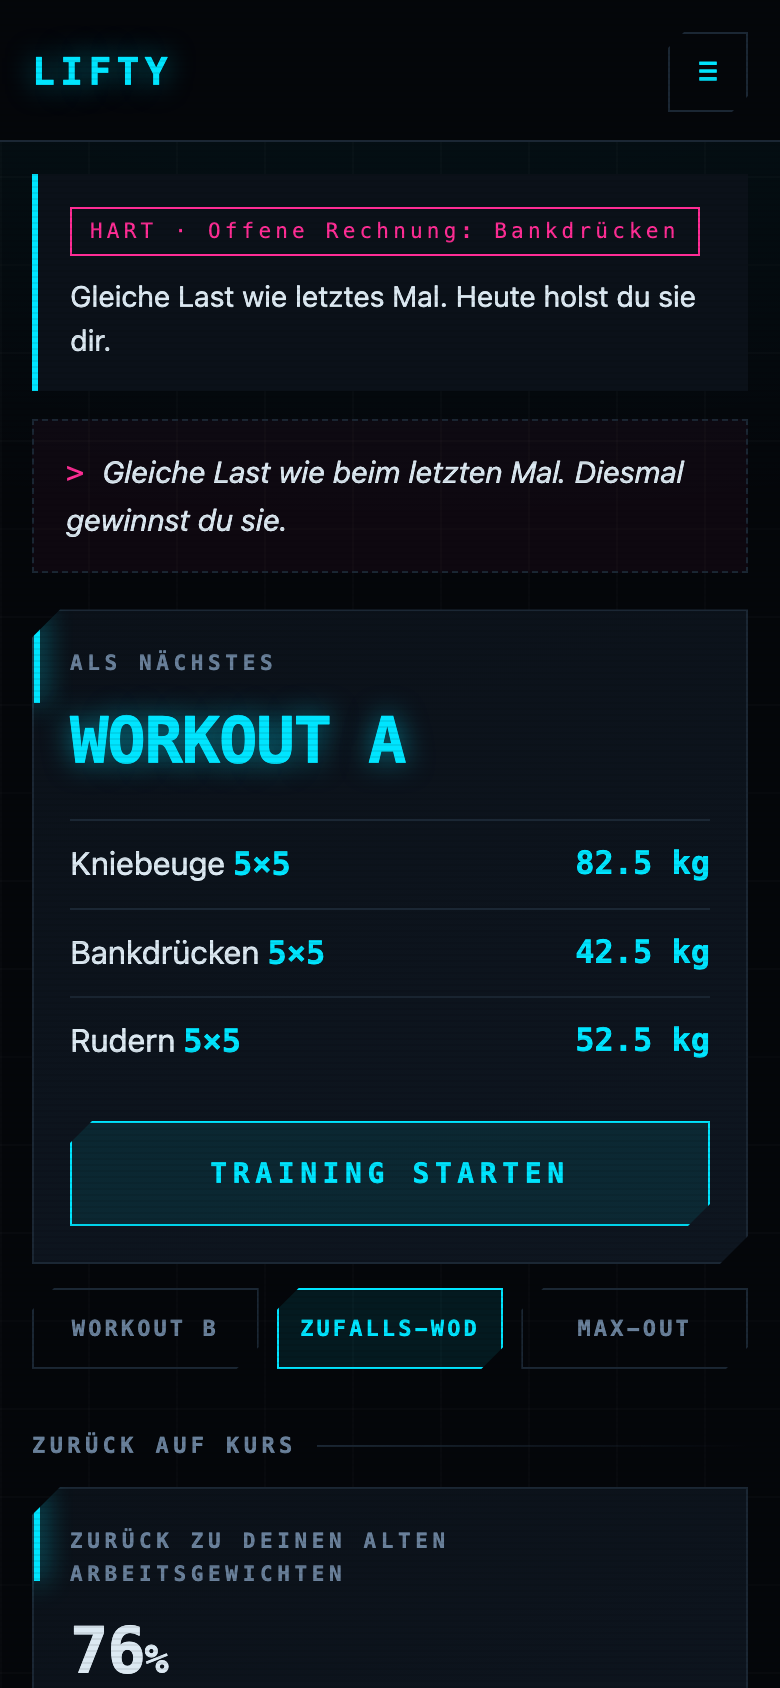
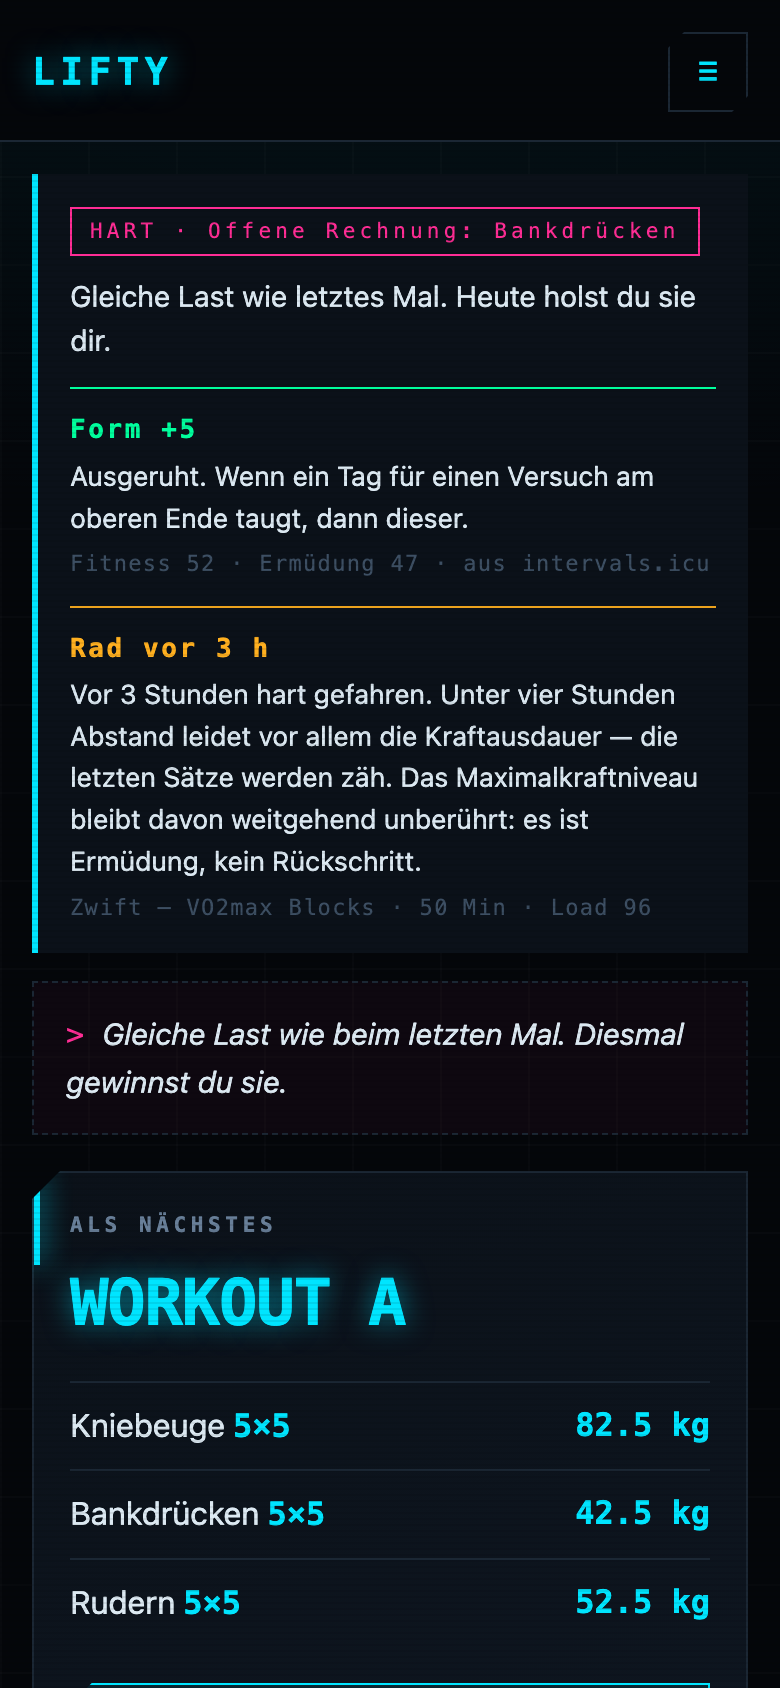
Screenshots neu aufgenommen, README auf Stand (256 Tests)

diff --git a/README.md b/README.md
@@ -4,7 +4,7 @@
 
 <p align="center">
   <a href="https://cyphomat.github.io/lifty/"><img alt="App öffnen" src="https://img.shields.io/badge/App-öffnen-00e5ff?style=for-the-badge&labelColor=0b1119"></a>
-  <img alt="Tests" src="https://img.shields.io/badge/Tests-211%20grün-00ff9d?style=for-the-badge&labelColor=0b1119">
+  <img alt="Tests" src="https://img.shields.io/badge/Tests-256%20grün-00ff9d?style=for-the-badge&labelColor=0b1119">
   <img alt="Build" src="https://img.shields.io/badge/Build-keiner-ff2d95?style=for-the-badge&labelColor=0b1119">
   <img alt="Abhängigkeiten" src="https://img.shields.io/badge/Abhängigkeiten-0-69809a?style=for-the-badge&labelColor=0b1119">
 </p>
@@ -58,7 +58,8 @@
 | **Gewicht im Satz** | Lässt sich während der Einheit anpassen. Das Log bildet ab, was passiert ist; die Progression rechnet von dort weiter. |
 | **Wiederholungen** | Tippen zählt das Ziel. Lange drücken öffnet 0 bis 12 — auch darüber, denn ein starker Satz ist eine Information. |
 | **Pausenuhr** | 90 s, nach einem Fehlversuch 180 s, im Lauf um ±30 s verstellbar. |
-| **Bestwerte** | Schwerster sauberer Satz, gemessenes Einzel, geschätztes Maximum. |
+| **Bestwerte** | Schwerster sauberer Satz, gemessenes Einzel — und getrennt davon **Maximum** (nur aus Max-Out, belastbar) gegen **Mindestens** (aus Arbeitssätzen, Untergrenze). |
+| **Verlauf des Maximums** | Zweite Linie im Diagramm: steigt auch dann, wenn du bei gleichem Gewicht mehr Wiederholungen schaffst. |
 | **Max-Out** | Krafttest mit e1RM. Dreht den A/B-Wechsel nicht und ändert Arbeitsgewichte nur auf ausdrückliche Ansage. |
 | **Wissen an der Stange** | Kadenz direkt sichtbar; aufklappbar Begründung, Cue, typischer Fehler und die Brücke zum olympischen Heben. |
 
@@ -68,6 +69,9 @@
 |---|---|
 | **Radfahrten** | Fahrten, Stunden, Kilometer und die Wochenlast der letzten zwölf Wochen als Balken. |
 | **Form** | Fitness minus Ermüdung aus intervals.icu, als Hinweis in der Tagesansage. Die App kürzt keine Gewichte eigenmächtig. |
+| **Interferenz** | Warnt, wenn eine harte oder lange Fahrt weniger als vier Stunden zurückliegt — dann leidet die Kraftausdauer, nicht das Maximalkraftniveau. |
+| **Wattziele** | Aus der eFTP statt Prozentangaben: „Sweet Spot ≈ 214–226 W". |
+| **Woche im Kalender** | Geplante Einheiten landen auf Wunsch im intervals.icu-Kalender. |
 | **Kraft → intervals.icu** | Jede Krafteinheit und jedes WOD als Aktivität, damit die gesamte Last in **einer** Kurve liegt. |
 | **Zufalls-WOD** | AMRAP, Auf Zeit, EMOM, Chipper, Tabata. Lasten aus dem aktuellen Stand abgeleitet, nie zwei Langhantelteile. |
 | **Technik und Finisher** | Snatch Balance, Hang Power Clean, Overhead Squat · Battle Ropes, Farmer Walk. Täglich rotierend. |
@@ -270,7 +274,7 @@ JSC=/System/Library/Frameworks/JavaScriptCore.framework/Versions/A/Helpers/jsc
 for t in program coach wod stats intervals; do $JSC --module-file=tests/$t.test.js; done
 ```
 
-**211 Tests**, ausgeführt von der JS-Engine, die in macOS ohnehin steckt.
+**256 Tests**, ausgeführt von der JS-Engine, die in macOS ohnehin steckt.
 Kein Node, kein Framework, keine Installation.
 
 Sie decken ab, was still kaputtgehen kann: Progression, Deload, Streak,
@@ -338,3 +342,22 @@ Die tragen die Identität, nicht das Glühen.
 Nirgends im Code, nirgends im Repo, in keinem Commit. GitHub-Token und
 intervals.icu-Key werden in der App eingegeben und liegen ausschließlich im
 `localStorage` des jeweiligen Browsers.
+
+## Warum „Mindestens" und nicht „Maximum"
+
+e1RM-Formeln setzen voraus, dass der Satz nah ans Versagen ging. Ein
+5×5-Arbeitssatz ist per Definition submaximal — die Formel **unterschätzt**
+dort systematisch. Was aus Arbeitssätzen kommt, ist deshalb eine Untergrenze
+und heißt auch so. Ein belastbares Maximum liefert nur ein Max-Out.
+
+Aus demselben Grund mischt die Verlaufskurve die beiden Quellen nicht: die
+gestrichelte Linie zeigt nur Untergrenzen, Max-Outs stehen als eigene Punkte
+daneben. Sonst sähe ein Wechsel der Datenquelle wie ein Rückschritt aus.
+
+## Warum vorher gelesen wird, bevor geschrieben wird
+
+`external_id` greift laut intervals.icu-Doku nur für dieselbe OAuth-Anwendung.
+Mit einem API-Key ist darauf kein Verlass. Kalendereinträge und nachgetragene
+Einheiten werden deshalb erst gegen den Bestand abgeglichen — über die Kennung
+und ersatzweise über Datum plus Name. Doppelte Einträge im eigenen Konto sind
+ärgerlicher als fehlende.
